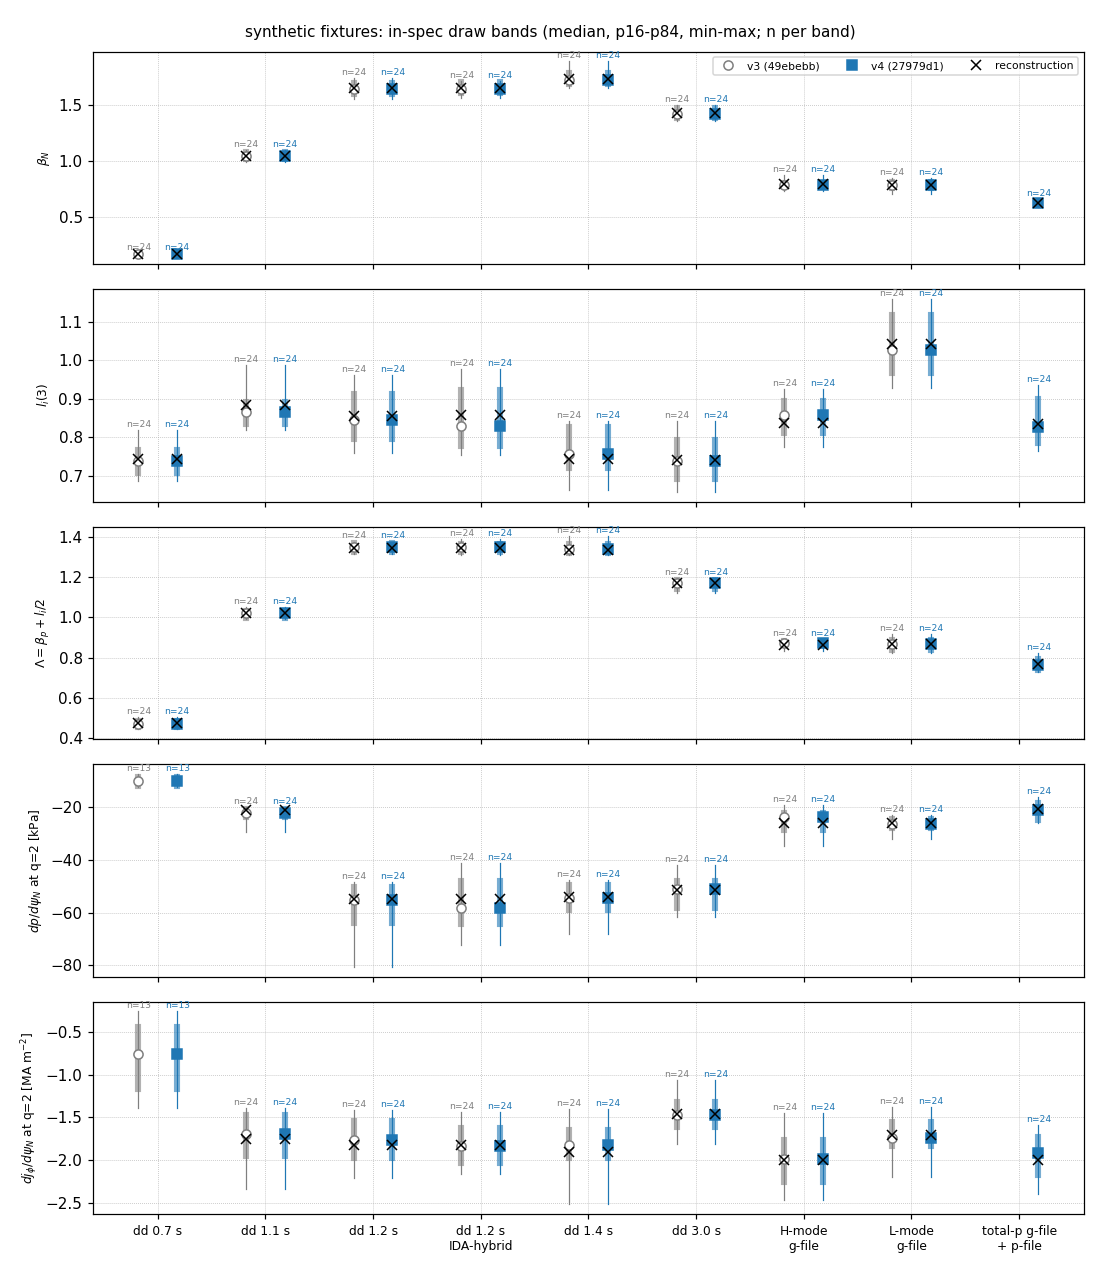
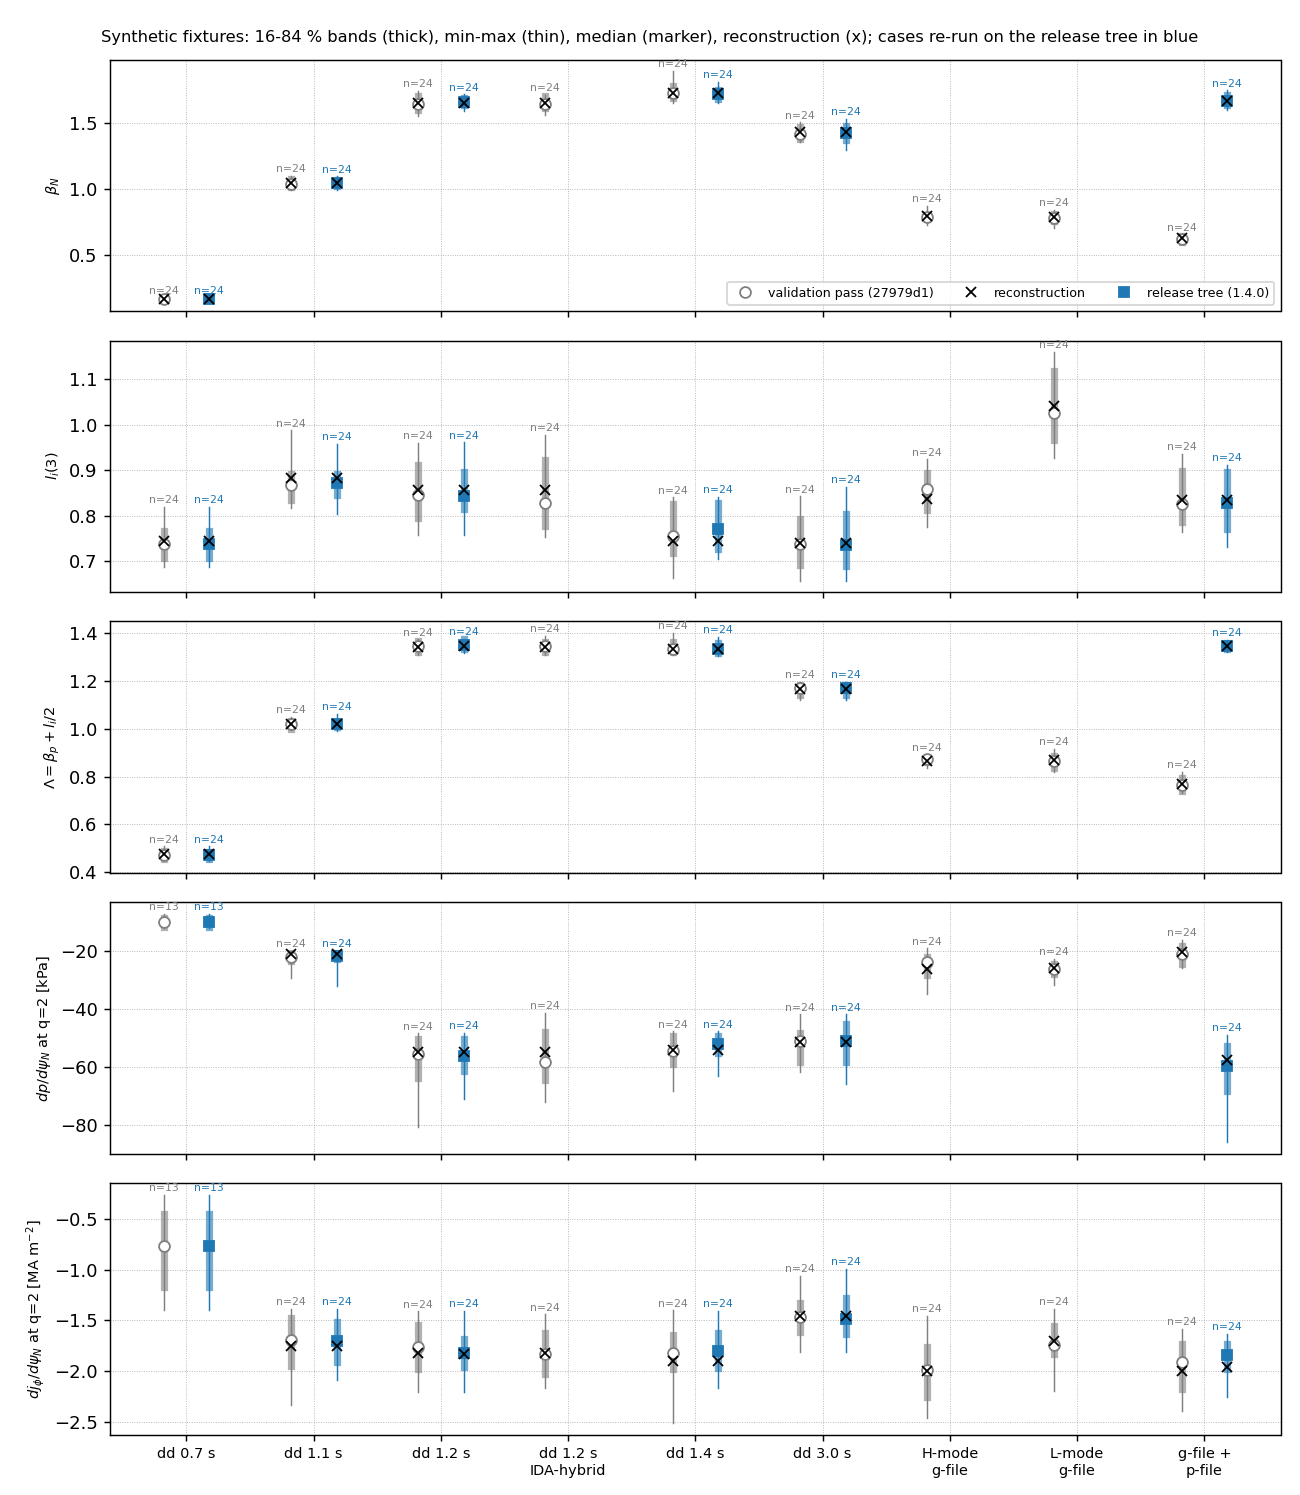
docs: the synthetic band figure drawn with the release-tree bands beside the validation pass
The overview now carries both the validation pass at 27979d1 (grey) and the
release tree (blue) for the six cases re-run after the dd-route Z_eff and
p-file beam-pressure changes, so the g-file + p-file case shows the beam
pressure's effect instead of a stale value with a caveat. Caption updated.

diff --git a/docs/validation-provenance.md b/docs/validation-provenance.md
@@ -142,14 +142,17 @@ Each was run at the library defaults until 24 draws were in spec.
 ![In-spec draw bands of the nine synthetic equilibria](figures/synthetic_bands_overview.png)
 
 *The figure shows the in-spec draws: the median, the 16–84 % band and the
-full range, with n per band (filled: `27979d1`; open: `49ebebb`; ×: the
-reconstruction). The panels are β_N, l_i(3), Λ = β_p + l_i/2, and dp/dψ_N and
-dj_φ/dψ_N at each draw's own q = 2 surface. The 0.7 s slice's q = 2 gradient
-bands rest on n = 13, because its other draws have no q = 2 surface. The
-figure predates `8e095fe`, so the total-pressure g-file + p-file case is
-shown without the p-file's beam pressure (β_N 0.63); at the release it
-carries it (β_N 1.666 [1.635, 1.712]). The dd slices' bands moved by less
-than their widths (table below).*
+full range, with n per band (grey, open: the validation pass at `27979d1`;
+blue, filled: the release tree, for the cases re-run after the dd-route Z_eff
+and p-file beam-pressure changes; ×: the reconstruction). The panels are
+β_N, l_i(3), Λ = β_p + l_i/2, and dp/dψ_N and dj_φ/dψ_N at each draw's own
+q = 2 surface. The 0.7 s slice's q = 2 gradient bands rest on n = 13, because
+its other draws have no q = 2 surface. The total-pressure g-file + p-file
+case shows the effect of the beam-pressure default: without it (grey) the
+reconstruction sits at β_N 0.63 against the file's 1.68; with it (blue) at
+1.666 [1.635, 1.712]. The dd slices' bands moved by less than their widths
+(table below); the two IDA-route g-file cases and the IDA-hybrid slice were
+not re-run because their routes did not change.*
 
 At `27979d1`:
 
